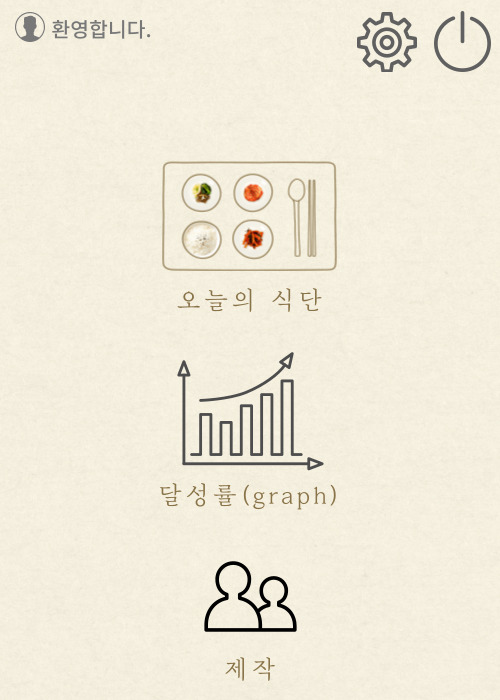
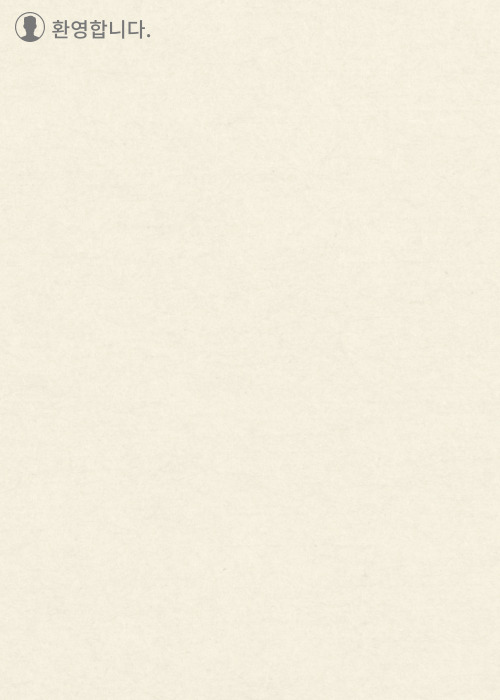
디자인(로그인화면, 메뉴화면)

diff --git a/src/global/main_Dialog.java b/src/global/main_Dialog.java
@@ -22,42 +22,58 @@ public class main_Dialog extends JDialog {
         setSize(WINDOW_WIDTH,WINDOW_HEIGHT);
         Dimension windowSize = Toolkit.getDefaultToolkit().getScreenSize();
         setLocation((windowSize.width - WINDOW_WIDTH) / 2, (windowSize.height - WINDOW_HEIGHT) / 2);
-        username.setText(name+"님 반갑습니다.");
-        Font f = new Font("돋움체",Font.CENTER_BASELINE,20);
-        username.setForeground(new Color(178,102,255));
+        username.setText(name+"님");
+        Font f = new Font("Gothic",Font.CENTER_BASELINE,20);
+        username.setForeground(Color.GRAY);
         username.setFont(f);
-        username.setBounds(10,10,400,20);
+        username.setBounds(150,18,400,20);
         username.setVisible(true);
         mainPanel.add(username);
-        ImageIcon profileChange_png = new ImageIcon("src/asset/profileChange.png"); //이미지파일 크기 조정하는 하드코딩
-        Image img = profileChange_png.getImage();
-        Image changeImg = img.getScaledInstance(100,100,Image.SCALE_SMOOTH);
+
+        ImageIcon profileChange_jpg = new ImageIcon("src/asset/set.jpg"); //이미지파일 크기 조정하는 하드코딩
+        Image img = profileChange_jpg.getImage();
+        Image changeImg = img.getScaledInstance(70,70,Image.SCALE_SMOOTH);
         ImageIcon change_png = new ImageIcon(changeImg);
         JButton profileChange = new JButton(change_png);
-
         profileChange.setVisible(true);
-        profileChange.setBounds(380,10,100,100);
-
+        profileChange.setBounds(320,10,70,70);
         profileChange.setBorderPainted(false); //버튼 투명하게 만들기
         profileChange.setContentAreaFilled(false);
         mainPanel.add(profileChange);
-        ImageIcon button_1_png = new ImageIcon("src/asset/button_1.png");
-        Image img_1 = button_1_png.getImage();
-        Image changeImg_1 = img_1.getScaledInstance(300,100,Image.SCALE_SMOOTH);
-        ImageIcon change_png_1 = new ImageIcon(changeImg_1);
-        JButton food = new JButton(change_png_1);
-        food.setBounds(90,200,300,100);
-        food.setVisible(true);
-        food.setBorderPainted(false);
-        food.setContentAreaFilled(false);
-        mainPanel.add(food);
-
         profileChange.addActionListener(new ActionListener() {
             @Override
             public void actionPerformed(ActionEvent e) {
                 new UserInfo_Dialog(id);
             }
         });
+
+        ImageIcon exit_p = new ImageIcon("src/asset/exit.jpg");
+        Image exit_img = exit_p.getImage();
+        Image exitImg = exit_img.getScaledInstance(70,70,Image.SCALE_SMOOTH);
+        ImageIcon exit_jpg = new ImageIcon(exitImg);
+        JButton exit = new JButton(exit_jpg);
+        exit.setVisible(true);
+        exit.setBounds(400,10,70,70);
+        exit.setBorderPainted(false); //버튼 투명하게 만들기
+        exit.setContentAreaFilled(false);
+        mainPanel.add(exit);
+        exit.addActionListener(new ActionListener() {
+            @Override
+            public void actionPerformed(ActionEvent e) {
+                System.exit(0);
+            }
+        });
+
+        ImageIcon button_1_jpg = new ImageIcon("src/asset/식단.jpg");
+        Image img_1 = button_1_jpg.getImage();
+        Image changeImg_1 = img_1.getScaledInstance(262,213,Image.SCALE_SMOOTH);
+        ImageIcon change_png_1 = new ImageIcon(changeImg_1);
+        JButton food = new JButton(change_png_1);
+        food.setBounds(119,80,262,213);
+        food.setVisible(true);
+        food.setBorderPainted(false);
+        food.setContentAreaFilled(false);
+        mainPanel.add(food);
         food.addActionListener(new ActionListener() {
             @Override
             public void actionPerformed(ActionEvent e) {
@@ -65,13 +81,12 @@ public class main_Dialog extends JDialog {
             }
         });
 
-        ImageIcon button_2_png = new ImageIcon("src/asset/button_2.png");
-        Image img_2 = button_2_png.getImage();
-        Image changeImg_2 = img_2.getScaledInstance(300,100,Image.SCALE_SMOOTH);
+        ImageIcon button2_jpg = new ImageIcon("src/asset/graph.jpg");
+        Image img_2 = button2_jpg.getImage();
+        Image changeImg_2 = img_2.getScaledInstance(267,226,Image.SCALE_SMOOTH);
         ImageIcon change_png_2 = new ImageIcon(changeImg_2);
         JButton graph = new JButton(change_png_2);
-
-        graph.setBounds(90,350,300,100);
+        graph.setBounds(117,280,267,226);
         graph.setVisible(true);
         graph.setBorderPainted(false);
         graph.setContentAreaFilled(false);
@@ -81,13 +96,12 @@ public class main_Dialog extends JDialog {
             public void actionPerformed(ActionEvent e) { new graph_dialog(id);}
         });
 
-        ImageIcon button_3_png = new ImageIcon("src/asset/button_3.png");
-        Image img_3 = button_3_png.getImage();
-        Image changeImg_3 = img_3.getScaledInstance(300,100,Image.SCALE_SMOOTH);
+        ImageIcon button3_jpg = new ImageIcon("src/asset/made.jpg");
+        Image img_3 = button3_jpg.getImage();
+        Image changeImg_3 = img_3.getScaledInstance(172,182,Image.SCALE_SMOOTH);
         ImageIcon change_png_3 = new ImageIcon(changeImg_3);
         JButton made = new JButton(change_png_3);
-
-        made.setBounds(90,500,300,100);
+        made.setBounds(164,490,172,182);
         made.setVisible(true);
         made.setBorderPainted(false);
         made.setContentAreaFilled(false);
